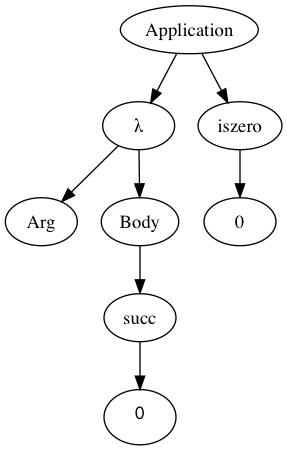
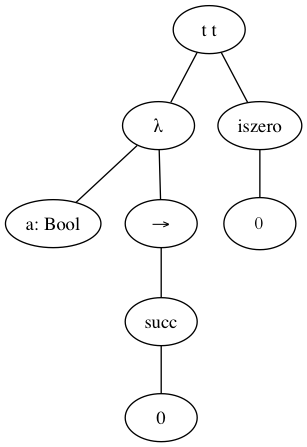
Update ast and improve style

diff --git a/_posts/2017-08-05-typed-lambda-calculus-create-type-checker-transpiler-compiler-javascript.md b/_posts/2017-08-05-typed-lambda-calculus-create-type-checker-transpiler-compiler-javascript.md
@@ -766,6 +766,35 @@ Right after that is the source code for transpilation of a function (or abstract
 
 Finally, we transpile the application. For this purpose, we transpile the left sub-expression of the application which is supposed to be a function and apply it to the right hand side of the application.
 
+Now if we transpile the following program to JavaScript:
+
+```
+(
+  λ x: Nat →
+    (λ y: Nat → x) 0
+)
+succ (
+  λ f: Nat →
+    (λ g: Nat → g) 0
+) 0
+```
+
+We will get:
+
+```javascript
+(x => {
+  return (y => {
+    return x;
+  })(0);
+})(
+  (f => {
+    return (g => {
+      return g;
+    })(0);
+  })(0) + 1
+);
+```
+
 # Conclusion
 
 The purpose of this article was to explain a "full-stack" process of design and development of a programming language. The explained language is an extension of the [lambda calculus](https://en.wikipedia.org/wiki/Lambda_calculus). On top of the primitives provided by the lambda calculus we added three built-in functions, natural numbers, boolean values, a syntax for conditional expressions and a type system. We provided a formal definition of these primitives in terms of small-step semantics and also defined a type system by using a series of type rules.
